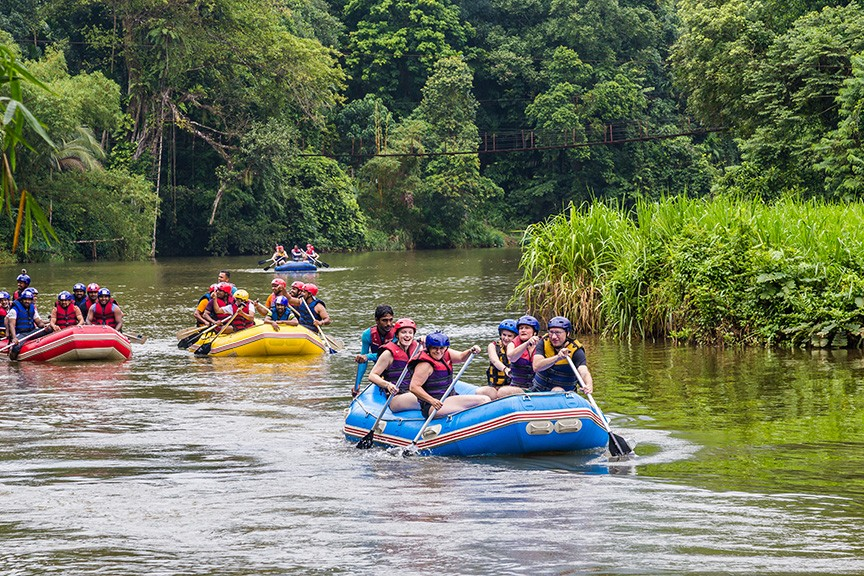
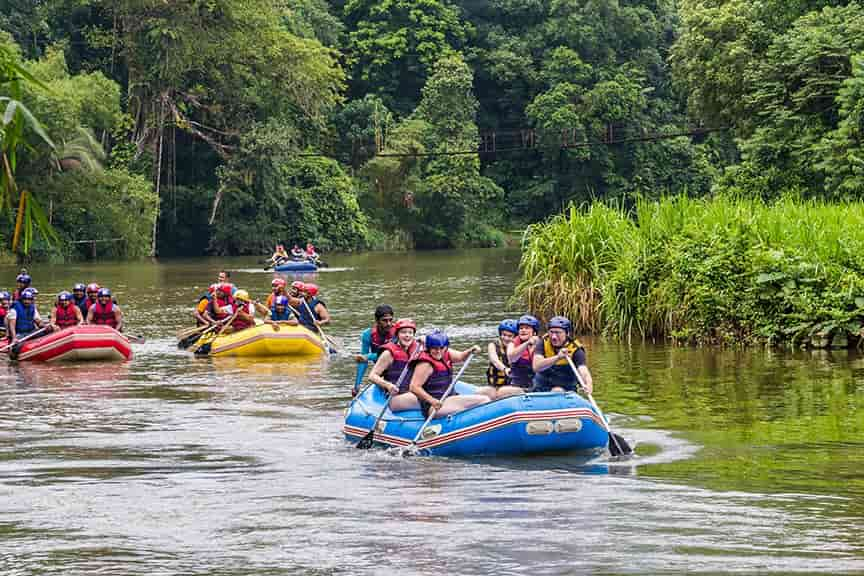
change1

diff --git a/wwr/about.html b/wwr/about.html
@@ -13,7 +13,7 @@
 
 <body>
     <header class="grid">
-        <img src="images/whitewater.png" alt="LOGO">
+        <img src="images/whitewater.webp" alt="logo whitewater">
         <nav>
             <ul>
                 <li><a href="index.html">Home</a></li>
@@ -25,7 +25,7 @@
     </header>
     <main>
         <div class="hero">
-            <img src="images/img-rafting.jpg" alt="PORTAL">
+            <img src="images/img-rafting.jpg" alt="firt big piture">
             <h1>Welcome to White Water Rafting</h1>
             <article>
                 <img src="images/happy-client.jpg" alt="happy-client">
@@ -48,7 +48,7 @@
                 the best experience possible. We have a team of experienced guides that are
                 dedicated to providing
                 you with the best experience possible.</p>
-            <img src="images/big-img-rafting.jpg" alt="rafting-2">
+            <img src="images/big-img-rafting.jpg" alt="rafting second trip">
             <p>WHITEWATER! started floating the river in 1995. We have been providing unforgettable
             experiences for
             over 30 years. We are a family owned and operated business that is dedicated to
@@ -61,19 +61,19 @@
             <h2>Adventure Awaits You!</h2>
             <figure class="gallery">
                 <img class="gallery-img" src="images/img-figure/img1.jpg" alt="img one rafting">
-                <figcaption>Rafting in the river</figcaption>
+                <figcaption>Mouth of Queen rapids</figcaption>
             </figure>
             <figure class="gallery">
                 <img class="gallery-img"  src="images/img-figure/img2.jpg" alt="img two rafting">
-                <figcaption>Rafting in the river</figcaption>
+                <figcaption>River-Plate Rapid Park</figcaption>
             </figure>
             <figure class="gallery">
                 <img class="gallery-img" src="images/img-figure/img3.jpg" alt="img three rafting">
-                <figcaption>Rafting in the river</figcaption>
+                <figcaption>West Rafting Park </figcaption>
             </figure>
             <figure class="gallery" >
                 <img class="gallery-img" src="images/img-figure/img4.jpg" alt="img four rafting">
-                <figcaption>Rafting in the river</figcaption>
+                <figcaption>Utha Mount rafting</figcaption>
             </figure>
             <figure class="gallery">
                 <img class="gallery-img" src="images/img-figure/img5.jpg" alt="img five rafting">

diff --git a/wwr/styles/rafting.css b/wwr/styles/rafting.css
@@ -5,7 +5,7 @@
 }
 
 :root {
-    --primary-color: #ff3c00;
+    --primary-color: #0f2d39;
     /*forest green*/
     --secondary-color: #f4a261;
     /*warm sand*/
@@ -55,7 +55,7 @@ nav ul{
     justify-content: space-around;
 }
 li a{
-    text-decoration-style: var(--body-font);
+    text-decoration-style: var(--heading-font);
     color: var(--accent3-color);
     text-decoration: none;
 }
@@ -81,8 +81,8 @@ section p {
 }
 
 article {
-    background-color: var(--secondary-color);
-    border: 4px outset var(--accent2-color);
+    background-color: var(--accent1-color);
+    border: 4px outset var(--secondary-color);
 }
 
 h1 {
@@ -115,6 +115,7 @@ h2 {
 }
 
 .hero-text {
+    background-color: var(--primary-color);
     font-size: 0.9rem;
     color: var(--accent3-color);
     padding: 10px 0px;
@@ -128,6 +129,7 @@ h2 {
 }
 
 .hero article {
+    background-color: var(--accent2-color);
     margin: 0;
     position: absolute;
     left: 5%;
@@ -154,7 +156,7 @@ h2 {
 .history-section img {
     background-color: var(--accent2-color);
     padding: 4px;
-    border: 3px var(--accent1-color) outset;
+    border: 3px var(--secondary-color) outset;
     max-width: 200px;
     max-height: auto;
 }
@@ -172,7 +174,7 @@ h2 {
     font-size: 0.9rem;
 }
 .gallery {
-  border: 3px var(--accent1-color) outset;
+  border: 3px var(--secondary-color) outset;
   background-color: var(--accent2-color);
   align-content: space-between;
   display: flex;
@@ -188,7 +190,7 @@ h2 {
 }
 
 figcaption {
-  background-color: var(--secondary-color);
+  background-color:var(--primary-color);
   color: var(--accent3-color);
   font-size: 0.8rem;
   font: italic sans-serif;
